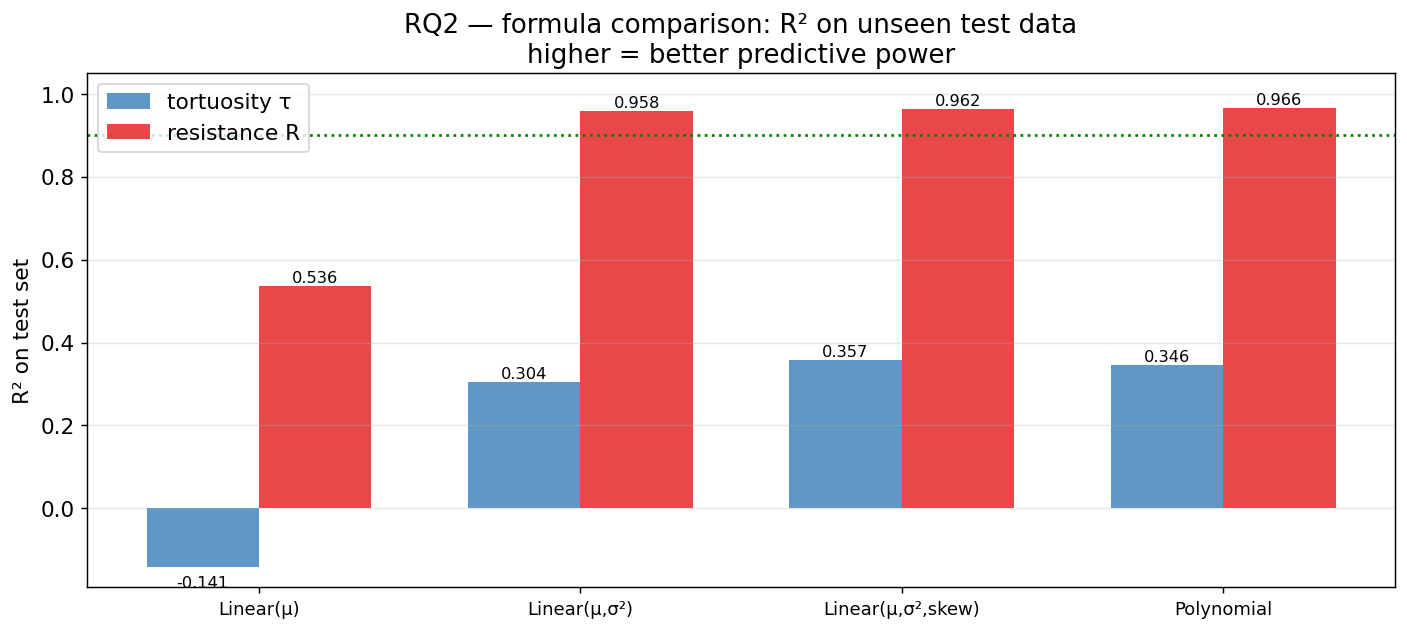
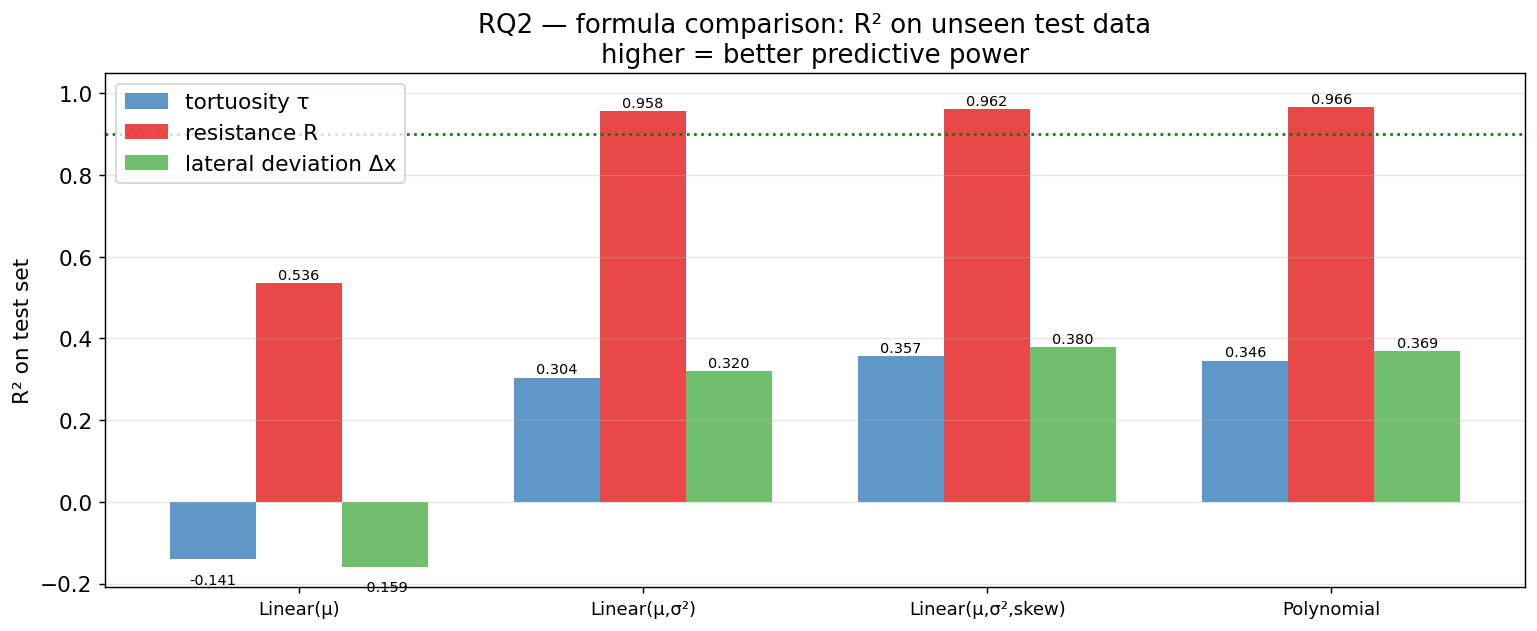
adding lateral deviation

diff --git a/NEW/RQ2/RQ2-3.py b/NEW/RQ2/RQ2-3.py
@@ -1,0 +1,239 @@
+# rq2_analysis.py
+# RQ2: can a formula predict path properties from distribution parameters alone?
+#
+# reads data100.csv produced by big_simulation.py
+# fits 4 formulas of increasing complexity for tortuosity, resistance and lateral deviation
+# evaluates each on a held-out test set (20% of data, never seen during fitting)
+#
+# produces 3 figures:
+#   rq2_formula_comparison.png  — R² bar chart comparing all 4 formulas
+#   rq2_predicted_vs_actual.png — predicted vs actual scatter for best formula
+#   rq2_residuals.png           — where the formula fails and why
+
+import pandas as pd
+import numpy as np
+import matplotlib.pyplot as plt
+import matplotlib.patches as mpatches
+from sklearn.linear_model import LinearRegression
+from sklearn.metrics import r2_score
+from sklearn.model_selection import train_test_split
+
+df = pd.read_csv("/Users/jakubb/Desktop/Thesis/NEW/data100.csv")
+
+def get_family(label):
+    if label.startswith("bimodal"):   return "bimodal"
+    if label.startswith("uniform"):   return "uniform"
+    if label.startswith("obstacles"): return "obstacles"
+    if label.startswith("low"):       return "low_resistance"
+    if label.startswith("exp"):       return "exponential"
+    if label.startswith("fixed"):     return "fixed_mean"
+    return "random"
+
+df["family"] = df["dist_label"].apply(get_family)
+
+COLORS = {
+    "bimodal":        "#e41a1c",
+    "uniform":        "#377eb8",
+    "obstacles":      "#ff7f00",
+    "low_resistance": "#4daf4a",
+    "exponential":    "#984ea3",
+    "fixed_mean":     "#a65628",
+    "random":         "#999999",
+}
+
+legend_handles = [mpatches.Patch(color=c, label=f) for f, c in COLORS.items()]
+plt.rcParams.update({"font.size": 12, "figure.dpi": 130})
+print(f"loaded {len(df)} distributions")
+
+# formula inputs
+X_mean = df["dist_mean"].values
+X_var  = df["dist_var"].values
+X_skew = df["dist_skew"].values
+
+# formula targets — three properties to predict
+y_tau  = df["mean_tortuosity"].values
+y_res  = df["mean_resistance"].values
+y_lat  = df["mean_lateral_dev"].values
+
+# 80/20 train/test split
+idx_train, idx_test = train_test_split(np.arange(len(df)), test_size=0.2, random_state=42)
+print(f"training on {len(idx_train)}, testing on {len(idx_test)}")
+
+
+def fit_and_report(name, X_tr, X_te, y_tr, y_te, target):
+    model     = LinearRegression().fit(X_tr, y_tr)
+    pred_test = model.predict(X_te)
+    r2_tr     = r2_score(y_tr, model.predict(X_tr))
+    r2_te     = r2_score(y_te, pred_test)
+    c         = model.coef_
+    b         = model.intercept_
+    print(f"  [{target}] {name}")
+    print(f"    R² train={r2_tr:.4f}   R² test={r2_te:.4f}")
+    if len(c) == 1:
+        print(f"    {target} = {c[0]:.4f}*μ + {b:.4f}")
+    elif len(c) == 2:
+        print(f"    {target} = {c[0]:.4f}*μ + {c[1]:.4f}*σ² + {b:.4f}")
+    elif len(c) == 3:
+        print(f"    {target} = {c[0]:.4f}*μ + {c[1]:.4f}*σ² + {c[2]:.4f}*skew + {b:.4f}")
+    elif len(c) == 4:
+        print(f"    {target} = {c[0]:.4f}*μ + {c[1]:.4f}*μ² + {c[2]:.4f}*σ² + {c[3]:.4f}*σ⁴ + {b:.4f}")
+    return r2_te, pred_test
+
+
+# build the 4 feature sets
+X1_tr = X_mean[idx_train].reshape(-1, 1)
+X1_te = X_mean[idx_test].reshape(-1, 1)
+
+X2_tr = np.column_stack([X_mean[idx_train], X_var[idx_train]])
+X2_te = np.column_stack([X_mean[idx_test],  X_var[idx_test]])
+
+X3_tr = np.column_stack([X_mean[idx_train], X_var[idx_train], X_skew[idx_train]])
+X3_te = np.column_stack([X_mean[idx_test],  X_var[idx_test],  X_skew[idx_test]])
+
+X4_tr = np.column_stack([X_mean[idx_train], X_mean[idx_train]**2,
+                          X_var[idx_train],  X_var[idx_train]**2])
+X4_te = np.column_stack([X_mean[idx_test],  X_mean[idx_test]**2,
+                          X_var[idx_test],   X_var[idx_test]**2])
+
+feature_sets = [
+    ("Linear(μ)",          X1_tr, X1_te),
+    ("Linear(μ,σ²)",       X2_tr, X2_te),
+    ("Linear(μ,σ²,skew)",  X3_tr, X3_te),
+    ("Polynomial",          X4_tr, X4_te),
+]
+
+print("\n--- tortuosity ---")
+results_tau = {}
+for name, Xtr, Xte in feature_sets:
+    r2, pred = fit_and_report(name, Xtr, Xte, y_tau[idx_train], y_tau[idx_test], "τ")
+    results_tau[name] = (r2, pred)
+
+best_tau = max(results_tau, key=lambda k: results_tau[k][0])
+print(f"\n  best: {best_tau}  R²={results_tau[best_tau][0]:.4f}")
+
+print("\n--- resistance ---")
+results_res = {}
+for name, Xtr, Xte in feature_sets:
+    r2, pred = fit_and_report(name, Xtr, Xte, y_res[idx_train], y_res[idx_test], "R")
+    results_res[name] = (r2, pred)
+
+best_res = max(results_res, key=lambda k: results_res[k][0])
+print(f"\n  best: {best_res}  R²={results_res[best_res][0]:.4f}")
+
+print("\n--- max lateral deviation ---")
+results_lat = {}
+for name, Xtr, Xte in feature_sets:
+    r2, pred = fit_and_report(name, Xtr, Xte, y_lat[idx_train], y_lat[idx_test], "Δx")
+    results_lat[name] = (r2, pred)
+
+best_lat = max(results_lat, key=lambda k: results_lat[k][0])
+print(f"\n  best: {best_lat}  R²={results_lat[best_lat][0]:.4f}")
+
+
+# ── figure 1: R² bar chart — all three targets ─────────────────────────────
+formula_names = [n for n, _, _ in feature_sets]
+r2_tau_vals   = [results_tau[n][0] for n in formula_names]
+r2_res_vals   = [results_res[n][0] for n in formula_names]
+r2_lat_vals   = [results_lat[n][0] for n in formula_names]
+
+x     = np.arange(len(formula_names))
+width = 0.25
+
+fig, ax = plt.subplots(figsize=(12, 5))
+bars1 = ax.bar(x - width, r2_tau_vals, width, label="tortuosity τ",
+               color="#377eb8", alpha=0.8)
+bars2 = ax.bar(x,          r2_res_vals, width, label="resistance R",
+               color="#e41a1c", alpha=0.8)
+bars3 = ax.bar(x + width,  r2_lat_vals, width, label="lateral deviation Δx",
+               color="#4daf4a", alpha=0.8)
+ax.set_xticks(x)
+ax.set_xticklabels(formula_names, fontsize=10)
+ax.set_ylabel("R² on test set")
+ax.set_ylim(min(min(r2_tau_vals), min(r2_lat_vals), 0) - 0.05, 1.05)
+ax.set_title("RQ2 — formula comparison: R² on unseen test data\nhigher = better predictive power")
+ax.legend()
+ax.axhline(0.9, color="green", linestyle=":", linewidth=1.5)
+ax.grid(True, alpha=0.3, axis="y")
+
+for bars in [bars1, bars2, bars3]:
+    for bar in bars:
+        h = bar.get_height()
+        ax.text(bar.get_x() + bar.get_width()/2,
+                h + 0.01 if h >= 0 else h - 0.06,
+                f"{h:.3f}", ha="center", fontsize=8)
+
+plt.tight_layout()
+plt.savefig("rq2_formula_comparison.png", bbox_inches="tight")
+plt.show()
+print("saved: rq2_formula_comparison.png")
+
+
+# ── figure 2: predicted vs actual — three targets ─────────────────────────
+test_colors   = [COLORS[f] for f in df["family"].values[idx_test]]
+best_tau_pred = results_tau[best_tau][1]
+best_res_pred = results_res[best_res][1]
+best_lat_pred = results_lat[best_lat][1]
+
+fig, axes = plt.subplots(1, 3, figsize=(17, 5))
+fig.suptitle("RQ2 — predicted vs actual (test set, 20% of data)\n"
+             "points on the diagonal = perfect prediction", fontsize=13)
+
+for ax, actual, predicted, xlabel, ylabel, title in [
+    (axes[0], y_tau[idx_test], best_tau_pred,
+     "actual tortuosity τ", "predicted tortuosity τ",
+     f"tortuosity — {best_tau}\nR² = {results_tau[best_tau][0]:.3f}"),
+    (axes[1], y_res[idx_test], best_res_pred,
+     "actual resistance R", "predicted resistance R",
+     f"resistance — {best_res}\nR² = {results_res[best_res][0]:.3f}"),
+    (axes[2], y_lat[idx_test], best_lat_pred,
+     "actual lateral deviation Δx", "predicted lateral deviation Δx",
+     f"lateral deviation — {best_lat}\nR² = {results_lat[best_lat][0]:.3f}"),
+]:
+    ax.scatter(actual, predicted, c=test_colors, alpha=0.7, s=50)
+    lim = [min(actual.min(), predicted.min()) - 0.5,
+           max(actual.max(), predicted.max()) + 0.5]
+    ax.plot(lim, lim, "k--", linewidth=1.5, label="perfect prediction")
+    ax.set_xlabel(xlabel)
+    ax.set_ylabel(ylabel)
+    ax.set_title(title)
+    ax.legend(fontsize=9)
+    ax.grid(True, alpha=0.3)
+
+fig.legend(handles=legend_handles, loc="lower center", ncol=4, fontsize=9,
+           bbox_to_anchor=(0.5, -0.05))
+plt.tight_layout()
+plt.savefig("rq2_predicted_vs_actual.png", bbox_inches="tight")
+plt.show()
+print("saved: rq2_predicted_vs_actual.png")
+
+
+# ── figure 3: residuals for tortuosity ────────────────────────────────────
+residuals = y_tau[idx_test] - best_tau_pred
+
+fig, ax = plt.subplots(figsize=(10, 5))
+ax.scatter(y_tau[idx_test], residuals, c=test_colors, alpha=0.7, s=50)
+ax.axhline(0, color="black", linestyle="--", linewidth=1.5)
+ax.set_xlabel("actual tortuosity τ")
+ax.set_ylabel("residual (actual − predicted)")
+ax.set_title("RQ2 — residuals of tortuosity formula\n"
+             "red points (bimodal) show where the formula struggles most")
+ax.legend(handles=legend_handles, fontsize=9, loc="upper right")
+ax.grid(True, alpha=0.3)
+plt.tight_layout()
+plt.savefig("rq2_residuals.png", bbox_inches="tight")
+plt.show()
+print("saved: rq2_residuals.png")
+
+
+# ── thesis numbers ─────────────────────────────────────────────────────────
+print("\n--- thesis numbers ---")
+print(f"  tortuosity range       : {y_tau.min():.3f} – {y_tau.max():.3f}")
+print(f"  resistance range       : {y_res.min():.1f} – {y_res.max():.1f}")
+print(f"  lateral deviation range: {y_lat.min():.3f} – {y_lat.max():.3f}")
+print()
+print(f"  {'formula':<25}  {'τ R²':>8}  {'R R²':>8}  {'Δx R²':>8}")
+for name in formula_names:
+    print(f"  {name:<25}  "
+          f"{results_tau[name][0]:>8.4f}  "
+          f"{results_res[name][0]:>8.4f}  "
+          f"{results_lat[name][0]:>8.4f}")

diff --git a/NEW/RQ1/threshold_finder.py b/NEW/RQ1/threshold_finder.py
@@ -1,0 +1,55 @@
+# threshold_fine_sweep.py
+# Runs a fine-grained bimodal sweep around the transition region
+# to find the exact empirical percolation threshold.
+#
+# Instead of the coarse step of 0.025 used in the main data collection,
+# this uses steps of 0.005 between p0=0.45 and p0=0.56 with 500 runs
+# per point - giving a much more precise estimate of where resistance
+# first drops to zero.
+
+import networkx as nx
+import numpy as np
+import pandas as pd
+
+H    = 50
+W    = 100
+RUNS = 500
+
+p0_sweep = np.arange(0.45, 0.561, 0.005)
+results  = []
+
+for p0 in p0_sweep:
+    p0 = round(float(p0), 4)
+
+    # bimodal: only R=0 and R=10
+    p      = [0.0] * 11
+    p[0]   = p0
+    p[10]  = round(1.0 - p0, 4)
+    probs  = np.array(p)
+
+    R_vals = []
+    for _ in range(RUNS):
+        G = nx.grid_2d_graph(H, W)
+        for (u, v) in G.edges():
+            G.edges[u, v]['weight'] = np.random.choice(range(11), p=probs)
+        G.add_node("source")
+        G.add_node("sink")
+        for j in range(W):
+            G.add_edge("source", (0, j), weight=0)
+            G.add_edge((H - 1, j), "sink", weight=0)
+        path   = nx.shortest_path(G, "source", "sink", weight='weight')
+        actual = [n for n in path if isinstance(n, tuple)]
+        R_vals.append(nx.path_weight(G, actual, weight='weight'))
+
+    mean_R = np.mean(R_vals)
+    results.append({"p0": p0, "mean_R": mean_R, "std_R": np.std(R_vals)})
+    print(f"p0={p0:.4f}  mean_R={mean_R:.4f}")
+
+df = pd.DataFrame(results)
+
+# threshold = first p0 where mean resistance drops below 0.1
+below_one = df[df["mean_R"] < 0.1]
+threshold = below_one["p0"].min() if len(below_one) > 0 else None
+
+print(f"\nEmpirical threshold: pc = {threshold}")
+print(f"Directed theory:     pc = 0.5000")